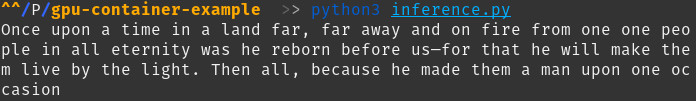
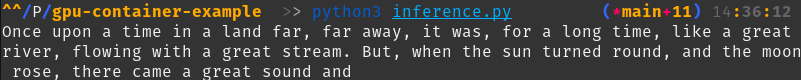
Reorganize dependencies and inference sections

diff --git a/articles/20240820_gpu_utilization.md b/articles/20240820_gpu_utilization.md
@@ -46,14 +46,7 @@ Daytona creates a controlled [development environment](/definitions/20240819_def
 
 [Docker](/definitions/20240819_definition_docker.md) is a platform that allows you to automate the deployment of applications inside lightweight, portable containers. These containers include everything needed to run the application, such as the code, runtime, libraries, and dependencies, ensuring consistency across different environments.
 
-If [Docker](/definitions/20240819_definition_docker.md) isn't already installed on your system, follow these steps:
-
-```bash
-# Update package lists and install Docker
-sudo apt-get update
-sudo apt-get install docker.io
-sudo systemctl start docker
-```
+If [Docker](/definitions/20240819_definition_docker.md) isn't already installed on your system, follow the [steps in their documentation](https://docs.docker.com/get-started/get-docker/).
 
 ### NVIDIA Container Toolkit Installation
 
@@ -61,25 +54,28 @@ The NVIDIA Container Toolkit is essential for enabling GPU support in [Docker](/
 
 ![nvidia diagram](assets/20240820_gpu_utilization_img2.jpg)
 
-To enable GPU support in [Docker](/definitions/20240819_definition_docker.md) containers, you need to install the NVIDIA Container Toolkit:
+To enable GPU support in [Docker](/definitions/20240819_definition_docker.md) containers, you need to install the NVIDIA Container Toolkit on your system machine. The toolkit is available for Linux and Windows.
+
+#### Linux
+
+To install the GPU driver for a compatible Linux distribution, follow the steps [in this guide](https://docs.nvidia.com/datacenter/cloud-native/container-toolkit/latest/install-guide.html) for your respective package manager.
+
+After it's installed, you can configure Docker to use the driver with the following commands:
 
 ```bash
-# Configure the production repository
-curl -fsSL https://nvidia.github.io/libnvidia-container/gpgkey | sudo gpg --dearmor -o /usr/share/keyrings/nvidia-container-toolkit-keyring.gpg \
-  && curl -s -L https://nvidia.github.io/libnvidia-container/stable/deb/nvidia-container-toolkit.list | \
-    sed 's#deb https://#deb [signed-by=/usr/share/keyrings/nvidia-container-toolkit-keyring.gpg] https://#g' | \
-    sudo tee /etc/apt/sources.list.d/nvidia-container-toolkit.list
-
-# Install the NVIDIA Container Toolkit
-sudo apt-get update
-sudo apt-get install -y nvidia-container-toolkit
-
-# Configure the container runtime
 sudo nvidia-ctk runtime configure --runtime=docker
-
-# Restart Docker to apply changes
 sudo systemctl restart docker
 ```
+
+#### Windows
+
+To enable NVIDIA CUDA on Windows, you can follow the [guide on Microsoft's website](https://learn.microsoft.com/en-us/windows/ai/directml/gpu-cuda-in-wsl).
+
+You need to use a Windows Subsystem for Linux (WSL) instance for Linux compatibility. Details on that can be found [here](https://learn.microsoft.com/en-us/windows/wsl/install).
+
+#### macOS
+
+The toolkit cannot be installed on macOS. A Linux-compatible system is required.
 
 ### Verify GPU Configuration
 
@@ -97,10 +93,51 @@ With your GPU-enabled [Docker](/definitions/20240819_definition_docker.md) envir
 
 ### Create Daytona Workspace
 
-Before starting, make sure to create a Daytona workspace to set up a development environment:
+To make it easier to set up the development environment in the future, we'll be creating a Daytona workspace.
+
+First, create a new Github repository. Add the following configuration to `.devcontainer/devcontainer.json`:
+
+```json
+{
+  "name": "GPU LLM Container",
+  "image": "mcr.microsoft.com/devcontainers/python:3.12-bookworm",
+  "customizations": {
+    "vscode": {
+      "settings": {
+        "python.defaultInterpreterPath": "/bin/python",
+        "python.linting.enabled": true,
+        "python.linting.pylintEnabled": true,
+        "python.formatting.autopep8Path": "/usr/local/bin/autopep8",
+        "python.formatting.blackPath": "/usr/local/bin/black",
+        "python.formatting.yapfPath": "/usr/local/bin/yapf",
+        "python.linting.banditPath": "/usr/local/bin/bandit",
+        "python.linting.flake8Path": "/usr/local/bin/flake8",
+        "python.linting.mypyPath": "/usr/local/bin/mypy",
+        "python.linting.pycodestylePath": "/usr/local/bin/pycodestyle",
+        "python.linting.pydocstylePath": "/usr/local/bin/pydocstyle",
+        "python.linting.pylintPath": "/usr/local/bin/pylint"
+      },
+      "extensions": [
+        "ms-python.python",
+        "ms-python.vscode-pylance"
+      ]
+    }
+  },
+  "postCreateCommand": "pip3 install -r requirements.txt"
+}
+```
+
+Then, add the required Python dependencies to `requirements.txt`:
+
+```
+torch==2.4.0
+transformers==4.44.2
+```
+
+Once the repository is set up, create the workspace with your respective username and repo name.
 
 ```bash
-daytona create https://github.com/giraffekey/gpu-container-example
+daytona create https://github.com/<username>/<repository>
 ```
 
 This will create a controlled environment with the required Python dependencies installed.
@@ -113,7 +150,7 @@ daytona code
 
 ### Download the GPT-2 Model
 
-There should be this script in your opened workspace:
+To download the GPT-2 model and tokenizer, use the following script:
 
 ```python
 # download.py
@@ -139,7 +176,7 @@ You should see `gpt2_model` and `gpt2_tokenizer` directories.
 
 ### Test the Model
 
-This is the script we will be using to generate text with the model:
+Now, create a script to generate text using the downloaded GPT-2 model:
 
 ```python
 # inference.py
@@ -147,11 +184,11 @@ This is the script we will be using to generate text with the model:
 import torch
 from transformers import GPT2LMHeadModel, GPT2Tokenizer
 
-def generate_text(prompt, max_length=50, top_k=50, top_p=0.9, temperature=0.8):
+def generate_text(prompt, max_length=50):
     # Check if GPU is available and set device accordingly
     device = torch.device("cuda" if torch.cuda.is_available() else "cpu")
     
-    # Load pre-trained GPT-2 model and tokenizer
+    # Load downloaded GPT-2 model and tokenizer
     model = GPT2LMHeadModel.from_pretrained("./gpt2_model")
     tokenizer = GPT2Tokenizer.from_pretrained("./gpt2_tokenizer", clean_up_tokenization_spaces=True)
     
@@ -169,11 +206,7 @@ def generate_text(prompt, max_length=50, top_k=50, top_p=0.9, temperature=0.8):
         inputs,
         max_length=max_length, 
         attention_mask=attention_mask,
-        pad_token_id=tokenizer.eos_token_id,
-        do_sample=True,  # Enable sampling
-        top_k=top_k,     # Top-k sampling
-        top_p=top_p,     # Nucleus (top-p) sampling
-        temperature=temperature  # Adjust temperature
+        pad_token_id=tokenizer.eos_token_id
     )
 
     # Decode the generated text
@@ -185,7 +218,7 @@ if __name__ == "__main__":
     print(generated_text)
 ```
 
-This script loads the model and tokenizer, performs text generation with advanced sampling techniques, and prints the output.
+This script loads the model and tokenizer, performs text generation, and prints the output.
 
 You can test the script in your workspace with the following command:
 
@@ -199,7 +232,7 @@ Which should output generated text like so:
 
 ### Create a Docker Container
 
-To run this script in a [Docker](/definitions/20240819_definition_docker.md) container, we'll be using the following Dockerfile:
+To run this script in a [Docker](/definitions/20240819_definition_docker.md) container, create a `Dockerfile` that includes all necessary dependencies, such as PyTorch and the Transformers library:
 
 ```Dockerfile
 FROM nvidia/cuda:12.6.0-base-ubuntu24.04
@@ -270,24 +303,56 @@ The temperature parameter controls the randomness of predictions by scaling the 
 
 ### Configuring the Script
 
-In the `inference.py` script, you can experiment with these values in order to tamper with the text output.
+Here's how to integrate these techniques into the text generation script:
 
 ```python
 # inference.py
 
-...
+import torch
+from transformers import GPT2LMHeadModel, GPT2Tokenizer
+
+def generate_text(prompt, max_length=50, top_k=50, top_p=0.9, temperature=0.8):
+    # Check if GPU is available and set device accordingly
+    device = torch.device("cuda" if torch.cuda.is_available() else "cpu")
+    
+    # Load pre-trained GPT-2 model and tokenizer
+    model = GPT2LMHeadModel.from_pretrained("./gpt2_model")
+    tokenizer = GPT2Tokenizer.from_pretrained("./gpt2_tokenizer", clean_up_tokenization_spaces=True)
+    
+    # Move model to the GPU
+    model.to(device)
+
+    # Encode the input prompt
+    inputs = tokenizer.encode(prompt, return_tensors="pt").to(device)
+
+    # Create attention mask
+    attention_mask = torch.ones(inputs.shape, device=inputs.device)
+
+    # Generate text with advanced sampling techniques
+    outputs = model.generate(
+        inputs,
+        max_length=max_length, 
+        attention_mask=attention_mask,
+        pad_token_id=tokenizer.eos_token_id,
+        do_sample=True,  # Enable sampling
+        top_k=top_k,     # Top-k sampling
+        top_p=top_p,     # Nucleus (top-p) sampling
+        temperature=temperature  # Adjust temperature
+    )
+
+    # Decode the generated text
+    return tokenizer.decode(outputs[0], skip_special_tokens=True)
 
 if __name__ == "__main__":
     prompt = "Once upon a time in a land far, far away"
-    generated_text = generate_text(prompt, top_k=50, top_p=0.9, temperature=2.0)
+    generated_text = generate_text(prompt)
     print(generated_text)
 ```
 
-By increasing the temperature all the way to 2.0, the generated text becomes more creative and often less coherent.
+
+The output should now be more coherent and varied.
 
 ![docker run output](assets/20240820_gpu_utilization_img6.jpg)
-
-It's important to play around with these values in order to achieve the preferred output.
 
 ## Monitoring and Optimizing Performance
 
